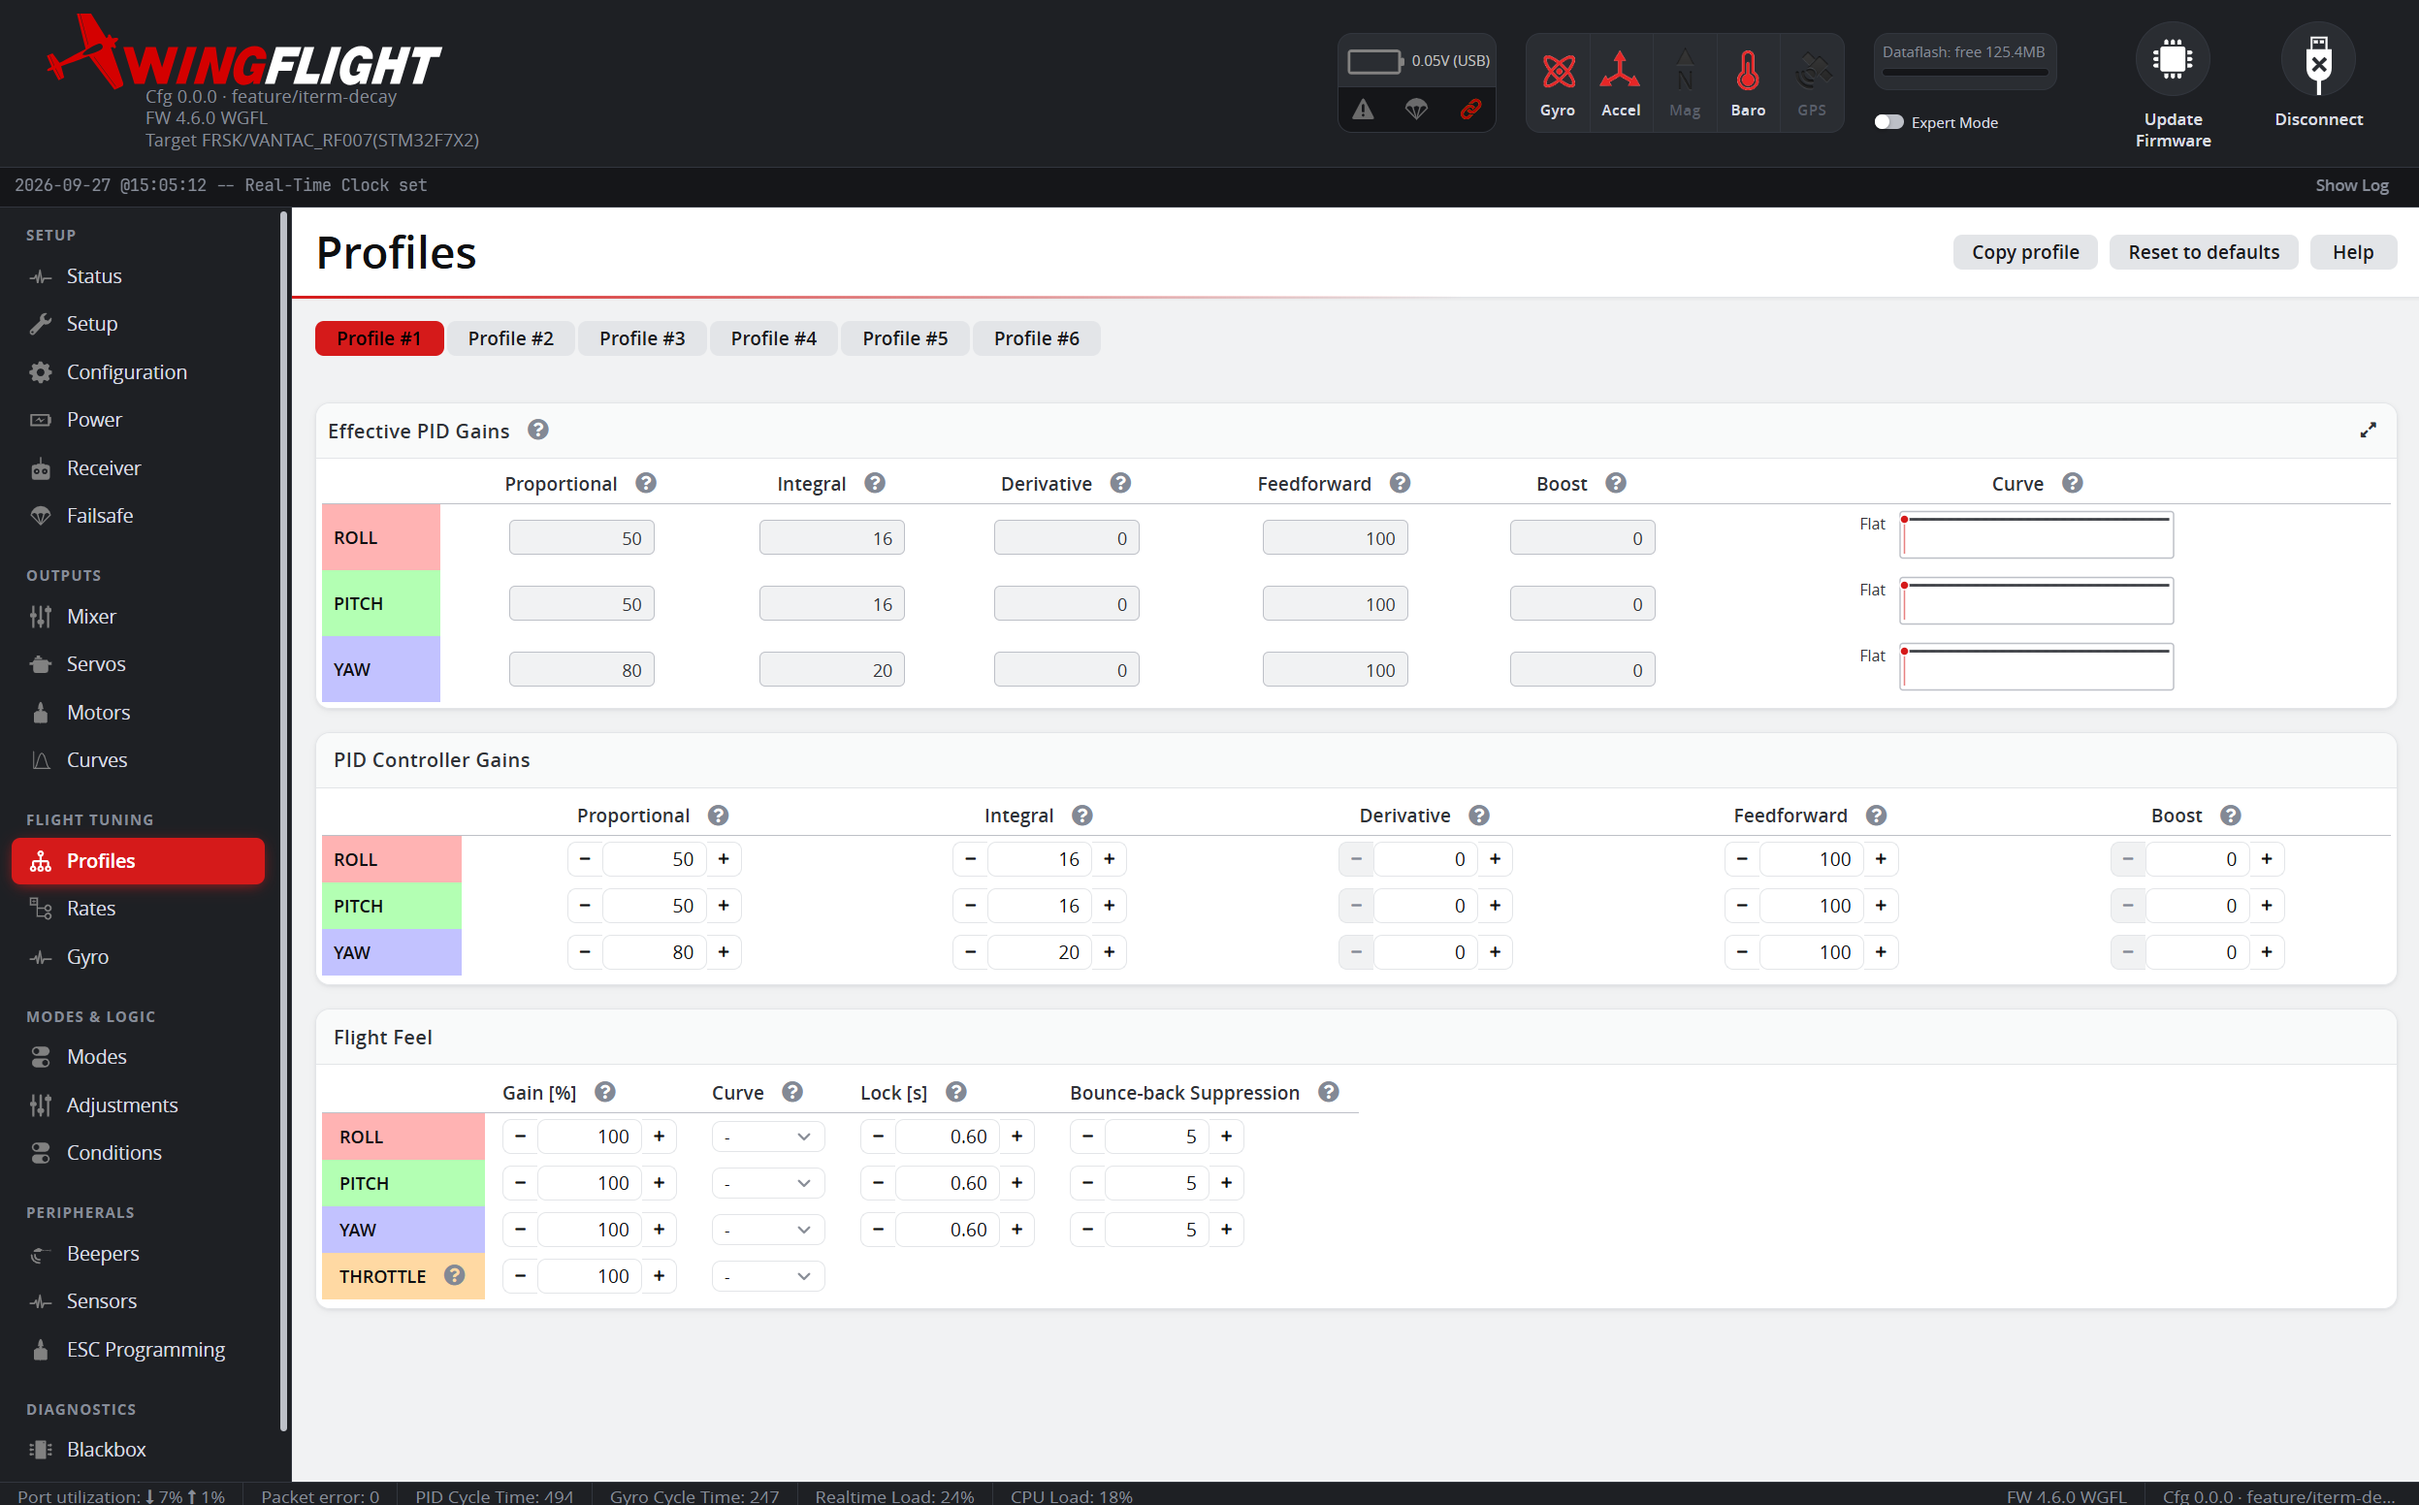
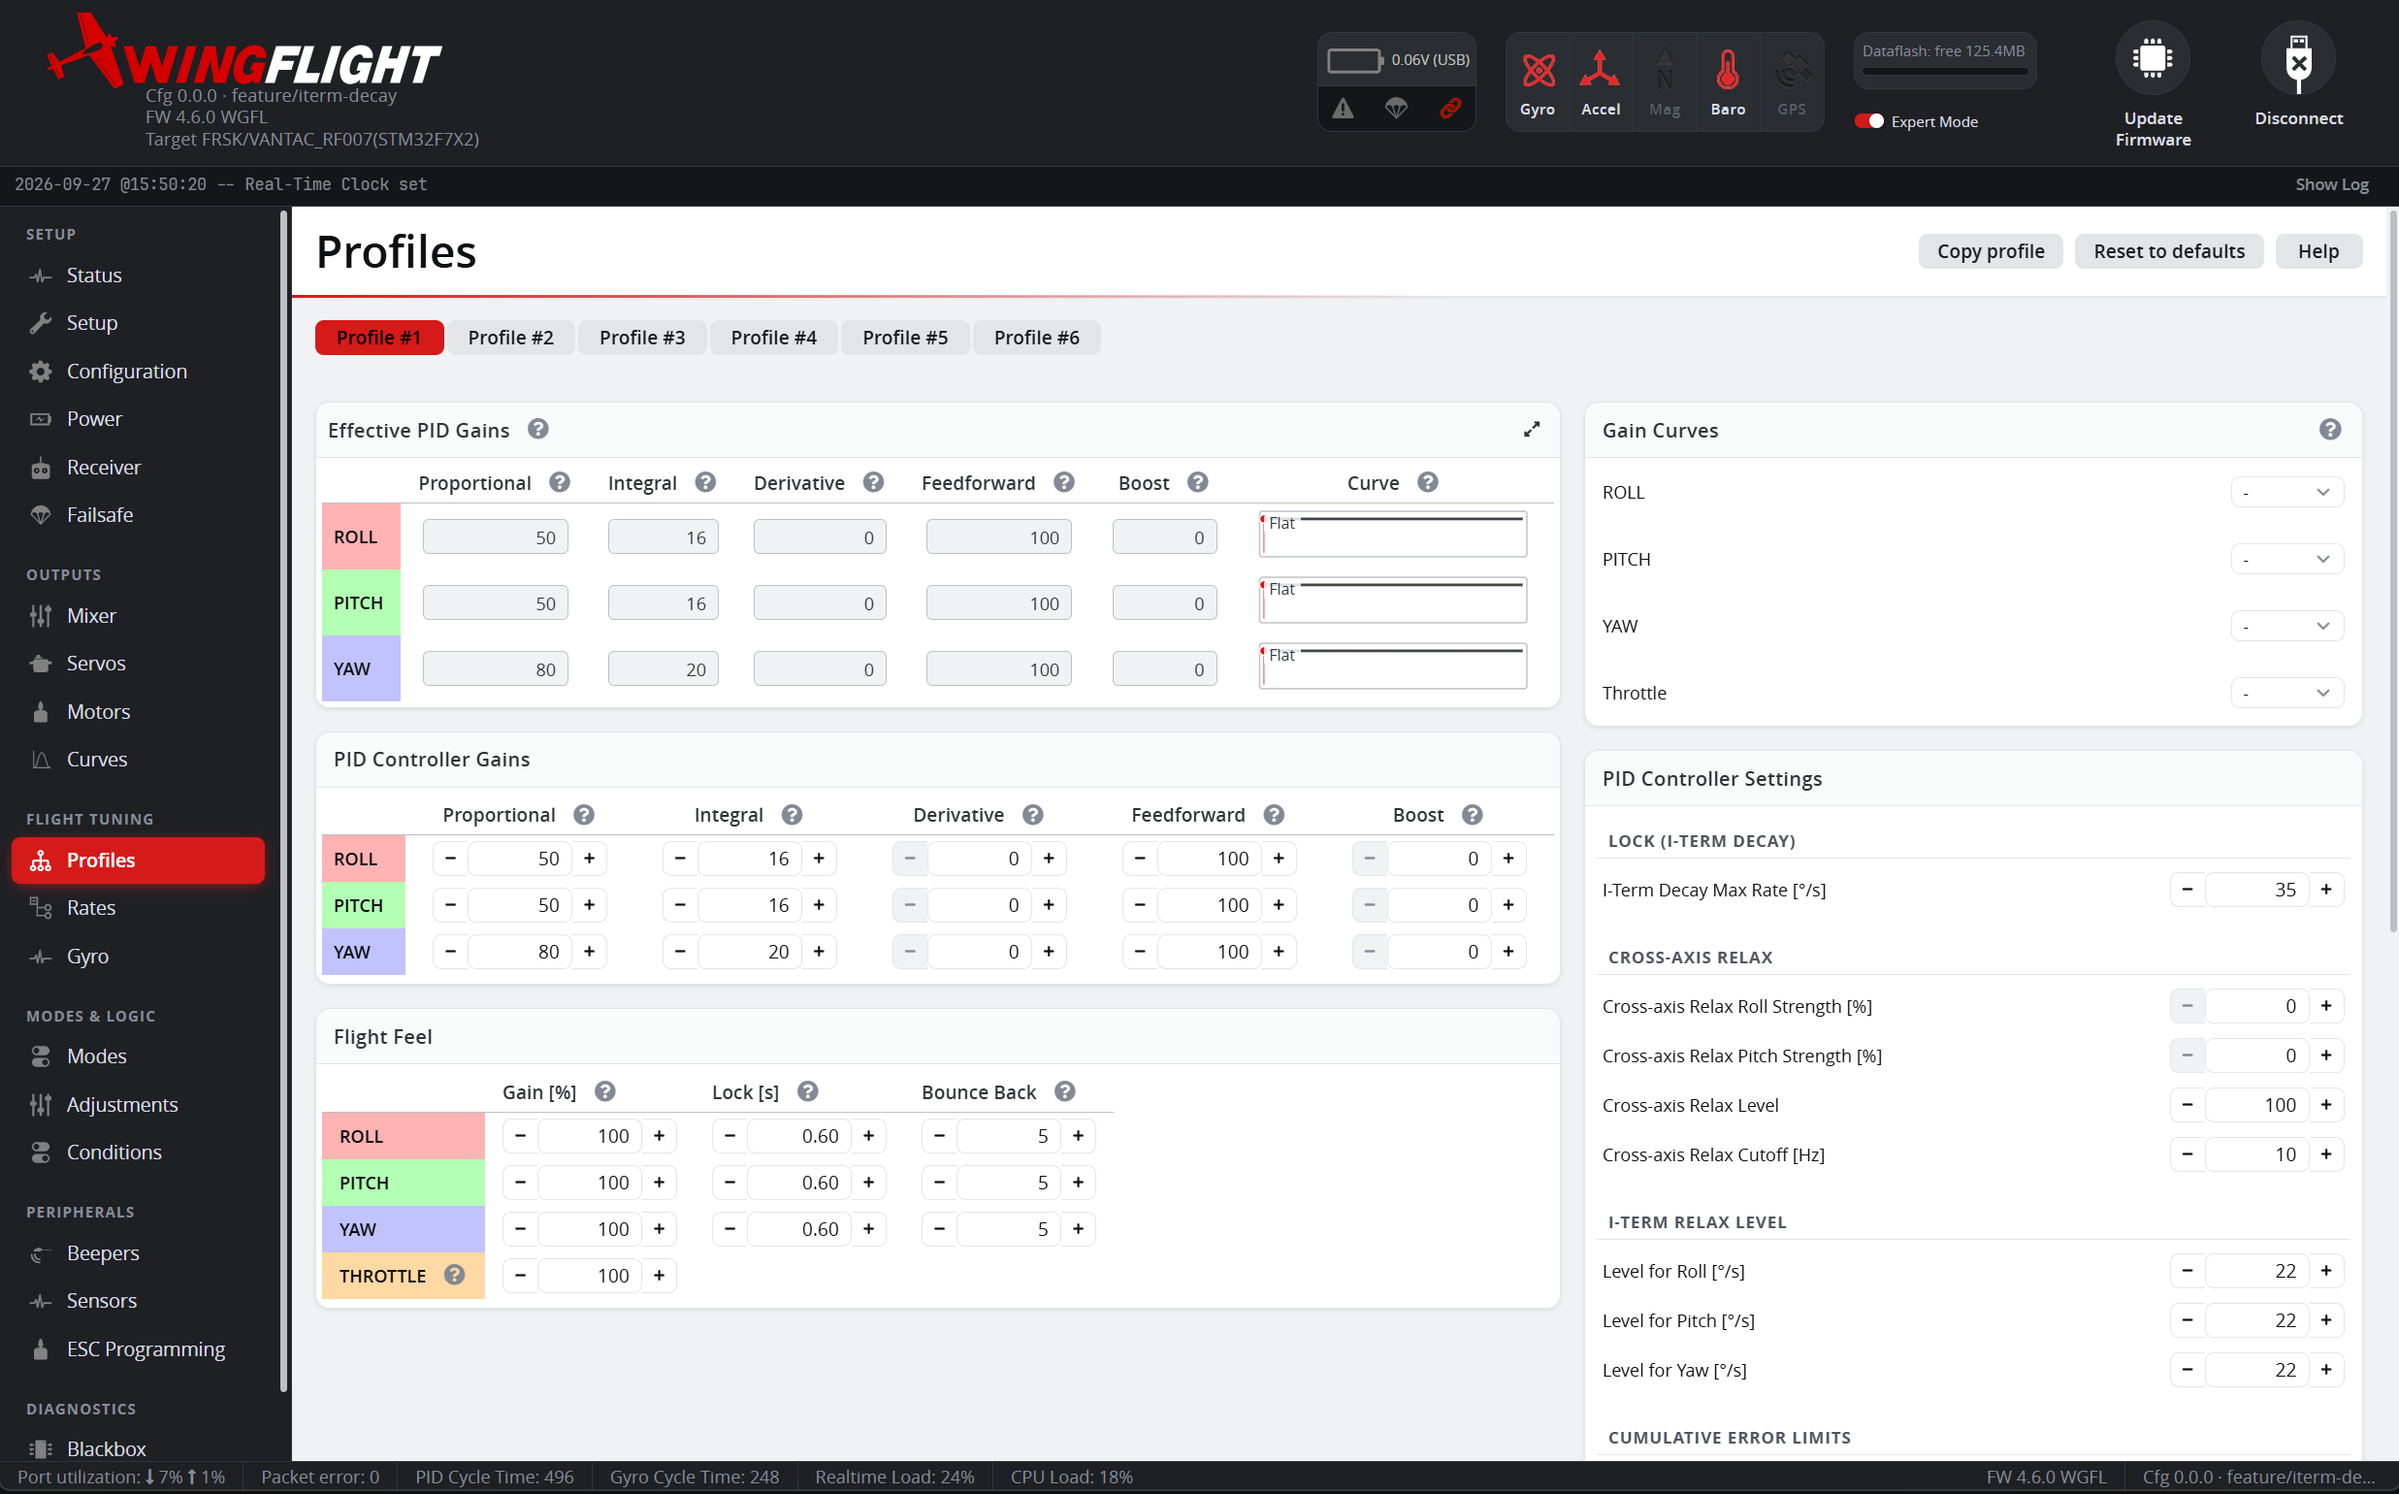
Document the Gain Curves panel (#46)
* Document the Gain Curves panel

Gain curves move out of Flight Feel into an Expert Mode Gain Curves panel;
Flight Feel shows a CURVE badge on any Gain a curve is shaping. Profiles,
Thrust Vector and Curves pages updated. The Profiles screenshot still shows
the old Curve column and needs retaking.

* Retake the Profiles screenshot with the Gain Curves panel

---------

diff --git a/docs/configurator/tabs/profiles.md b/docs/configurator/tabs/profiles.md
@@ -139,7 +139,6 @@ feel in the air, one value per axis:
 | Column | What it changes | Raise it if... | Lower it if... |
 |---|---|---|---|
 | **Gain** | How hard the axis pushes back against a disturbance | It feels soft or wanders | It oscillates or buzzes |
-| **Curve** | How Gain changes with stick position (or throttle, on the Throttle row) | | |
 | **Lock** [s] | How long the axis holds on to a correction after a gust | It doesn't feel pinned | It feels too locked in or pushes back after a manoeuvre |
 | **Bounce Back** (1-10) | How strongly a fast roll or loop is stopped from bouncing back | It bounces back when you centre the stick | Long, sustained rolls or loops lose rate |
 
@@ -152,13 +151,25 @@ shows the value being commanded.
 
 Gain sets one overall gain per axis (Roll, Pitch, Yaw) that scales the P, I
 and D terms of that axis together -- F (Feedforward) and Boost stay at their
-configured values. **Curve** optionally shapes it by stick position, from
-the shared pool on the [Curves](curves.md) tab, so gain can taper in or out
-as the stick moves away from centre.
+configured values. A gain curve can optionally shape it by stick position,
+so gain tapers in or out as the stick moves away from centre -- see
+[Gain Curves](#gain-curves). A **CURVE** badge on Gain shows when one is
+shaping that axis.
 
 The **Throttle** row scales all three axes' gain with throttle instead:
 surfaces in prop wash gain authority as throttle rises, so it is usually
-used to reduce gain at high throttle, with its curve evaluated on throttle.
+used to reduce gain at high throttle. Its gain curve, if any, is evaluated
+on throttle.
+
+### Gain Curves
+
+Gain curves are an advanced shaping tool, so they are assigned in the
+**Gain Curves** panel, which appears in Expert Mode, rather than in Flight
+Feel. Pick a curve slot for Roll, Pitch, Yaw and Throttle; the shapes
+themselves are edited on the [Curves](curves.md) tab. "-" means no curve,
+so Gain applies as set. Whenever a curve is assigned, the Gain cell in
+Flight Feel shows a **CURVE** badge, with the curve number in its tooltip,
+so the shaping is visible even outside Expert Mode.
 
 ### Lock
 

diff --git a/docs/configurator/tabs/thrust-vector.md b/docs/configurator/tabs/thrust-vector.md
@@ -12,7 +12,7 @@ This tab only appears once **THRUST VECTOR** is enabled as a feature.
 
 The PID Gains and Flight Feel tables work exactly like their
 [Profiles](profiles.md) counterparts -- P/I/D/F/B per axis, and per-axis
-Gain, Curve, Lock and Bounce Back. See
+Gain, Lock and Bounce Back, plus an Expert Mode Gain Curves panel. See
 [Profiles -- PID Gains](profiles.md#pid-gains) and
 [Profiles -- Flight Feel](profiles.md#flight-feel) for what each one does
 and how to tune it; the same reasoning applies here, just for the
@@ -20,7 +20,7 @@ thrust-vector loop instead of the main one, with its own values and its
 own Adjustments functions (TV Gain, TV Lock and TV Bounce Back
 Roll/Pitch/Yaw).
 
-One difference: the thrust-vector Gain (and so its Curve) also scales F,
+One difference: the thrust-vector Gain (and so its gain curve) also scales F,
 where the main loop's does not. The relax level is under PID Settings in
 Expert Mode.
 

diff --git a/docs/configurator/tabs/curves.md b/docs/configurator/tabs/curves.md
@@ -29,8 +29,8 @@ the [Mixer](mixer.md) tab.
 **X**: stick deflection, 0% (centered) to 100% (full throw) -- the same
 curve applies in both directions, it doesn't distinguish left from right.
 **Y**: a gain multiplier, 0-500%, where 100% means no change. The gain
-actually applied in flight is Gain (set per axis in Flight Feel on
-[Profiles](profiles.md#flight-feel)) multiplied by this curve's value at
+actually applied in flight is Gain (set per axis in Flight Feel on(profiles.md#flight-feel), with the curve assigned in the Expert
+Mode [Gain Curves](profiles.md#gain-curves) panel) multiplied by this curve's value at
 the current stick position -- so a flat line at 100% has no effect at all.
 Drag a point below 100 to taper gain out as the stick moves that way (a
 softer response out toward the ends of the stick), or above 100 to sharpen
